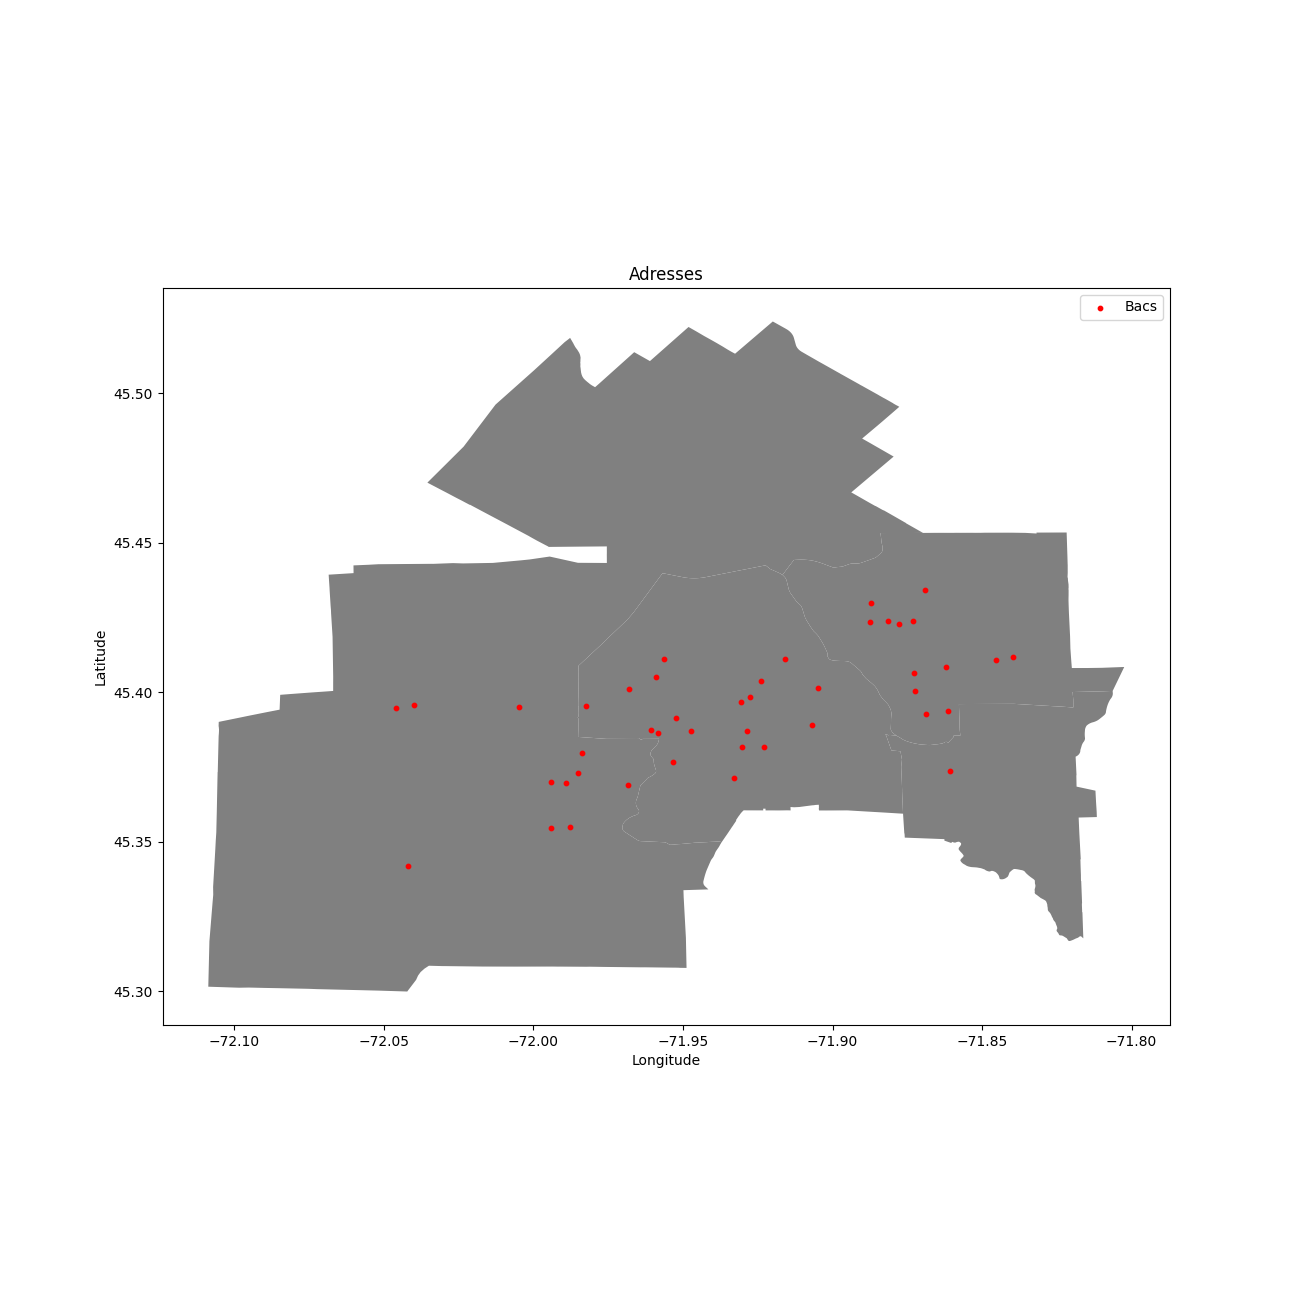
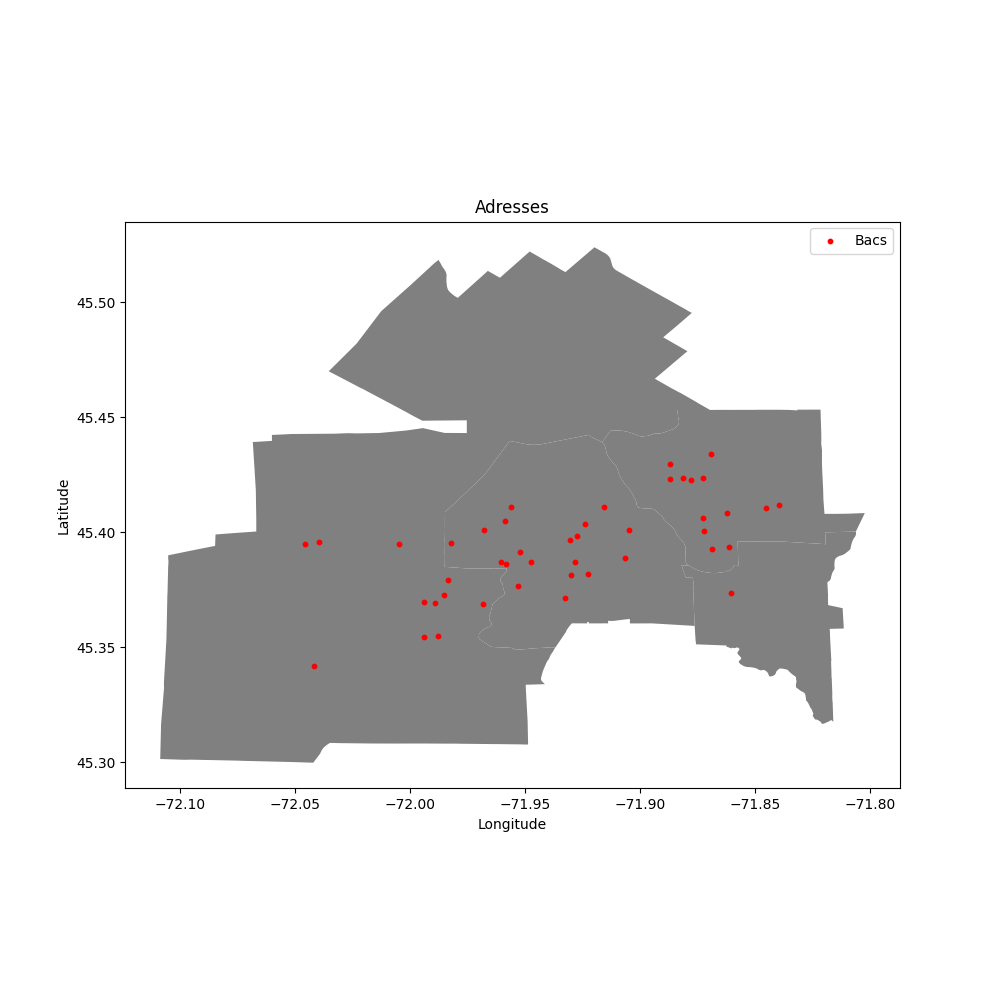
Now saving figs

diff --git a/afficher_carte.py b/afficher_carte.py
@@ -16,7 +16,14 @@ def create_dictionnary(points):
     return res
 
 
-def generate_map(points, title: str = "", path="", figsize=(10, 10), markersize=10):
+def generate_map(
+    points,
+    title: str = "",
+    path="",
+    figsize=(10, 10),
+    markersize=10,
+    file_name="datasets/carte.png",
+):
     # Création d'un geoDataFrame pour manipulation plus simple pour une mise en graphique
     gdf = gpd.GeoDataFrame(
         points, geometry=gpd.points_from_xy(points.Longitude, points.Latitude)
@@ -39,7 +46,7 @@ def generate_map(points, title: str = "", path="", figsize=(10, 10), markersize=
     ax.set_xlabel("Longitude")
     ax.set_ylabel("Latitude")
     plt.legend()
-    plt.savefig(path + "datasets/carte.png")
+    plt.savefig(path + file_name)
 
 
 def generate_town_graph_radius(
@@ -49,6 +56,7 @@ def generate_town_graph_radius(
     map_background=False,
     figsize=(10, 10),
     path="",
+    file_name="datasets/graphe_cercles.png",
 ):
     pos = create_dictionnary(points)
     data = {"x": [], "y": [], "label": []}
@@ -79,7 +87,7 @@ def generate_town_graph_radius(
 
     plt.scatter(data["x"], data["y"], marker="o")
     plt.title(label=title)
-    plt.show()
+    plt.savefig(path + file_name)
 
 
 def generate_town_graph_connected(
@@ -89,6 +97,7 @@ def generate_town_graph_connected(
     map_background=False,
     figsize=(10, 10),
     path="",
+    file_name="datasets/graphe_connecte.png",
 ):
     pos = create_dictionnary(points)
     data = {"x": [], "y": [], "label": []}
@@ -127,7 +136,7 @@ def generate_town_graph_connected(
         ax.set_xlabel("Longitude")
         ax.set_ylabel("Latitude")
     nx.draw(G, pos, with_labels=True, node_size=100)
-    plt.show()
+    plt.savefig(path + file_name)
     # Pourquoi 2 graphiques
 
 
@@ -141,10 +150,10 @@ points = pd.read_csv(
 
 points = pd.read_csv(path + "/datasets/cloches.csv")
 r = 0.02
-map_back = False
+map_back = True
 
-# generate_map(points, title="Adresses")
-# plt.clf()
+generate_map(points, title="Adresses")
+plt.clf()
 generate_town_graph_radius(
     points,
     title="Graphe des cloches",
